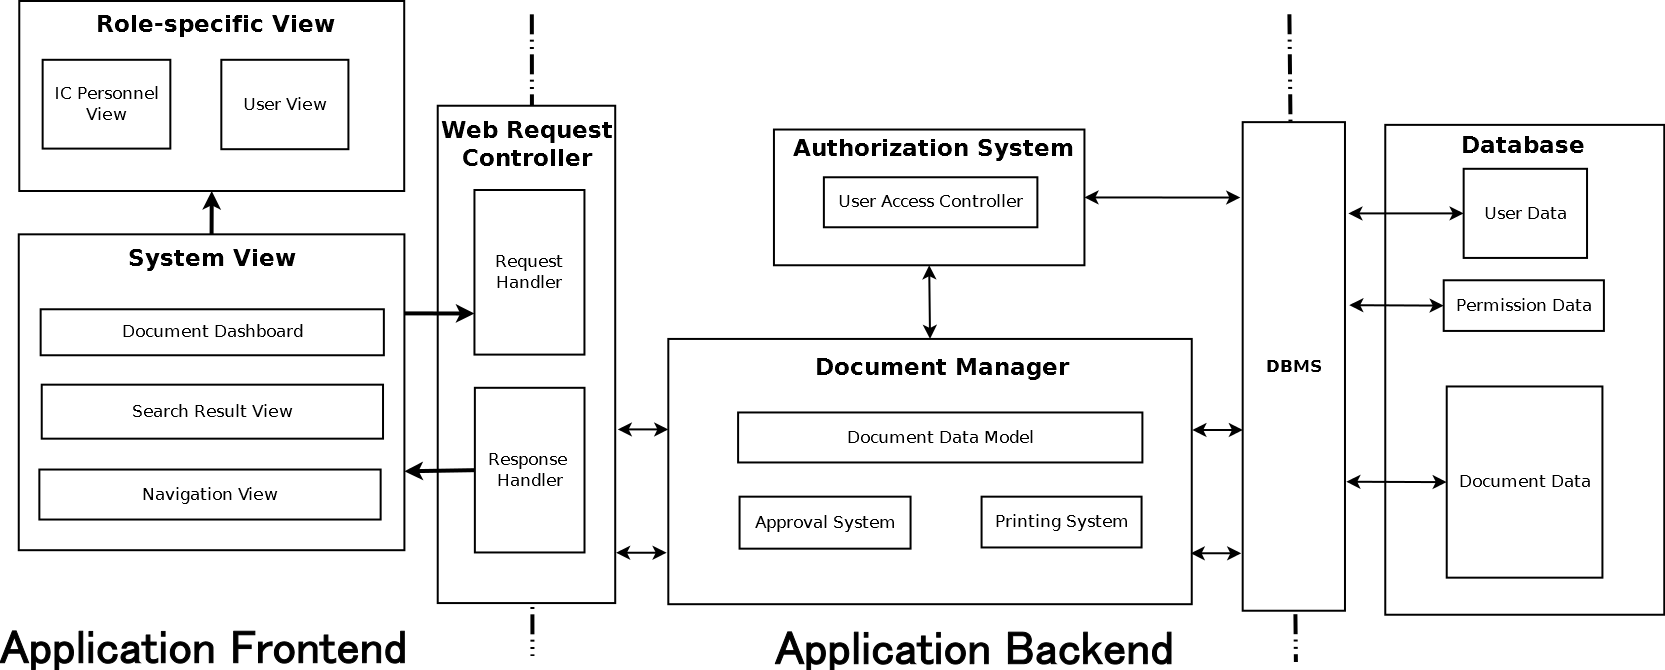
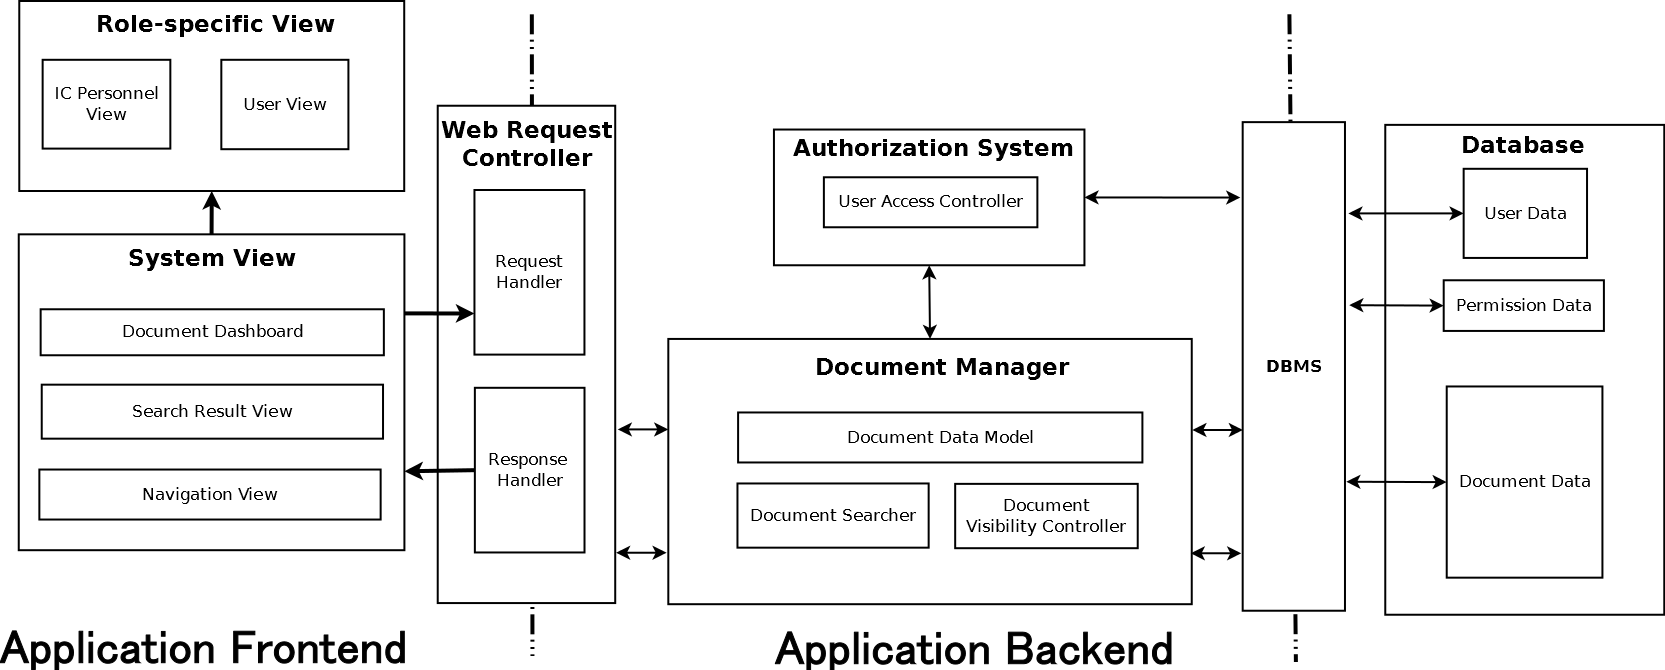
replace approval sys and printing sys to searcher and visibility controller

Changed region(s): [[0.4372, 0.7164, 0.6871, 0.8358]]

diff --git a/software-design.tex b/software-design.tex
@@ -94,9 +94,9 @@ It has three subsystems:
 		\hline
 		Subsystem & Description \\
 		\hline
-		Document Data Model & Define how each type of document should be created including assigning an identification code. \\
-		Approval System & Manages and updates documents when they are approved or rejected. \\
-		Printing System & Printing out digital documents to a paper using a printer. \\
+		Document Data Model & Define how each type of document should be created including assigning an identification code \\
+		Document Searcher & Manipulate document search results according to a user given query such as document name, document type, and author name \\
+		Visibility controller & Controls which user can access the document when a document owner reveal his/her document \\
 		\hline
 	\end{tabular}
 \end{table}
